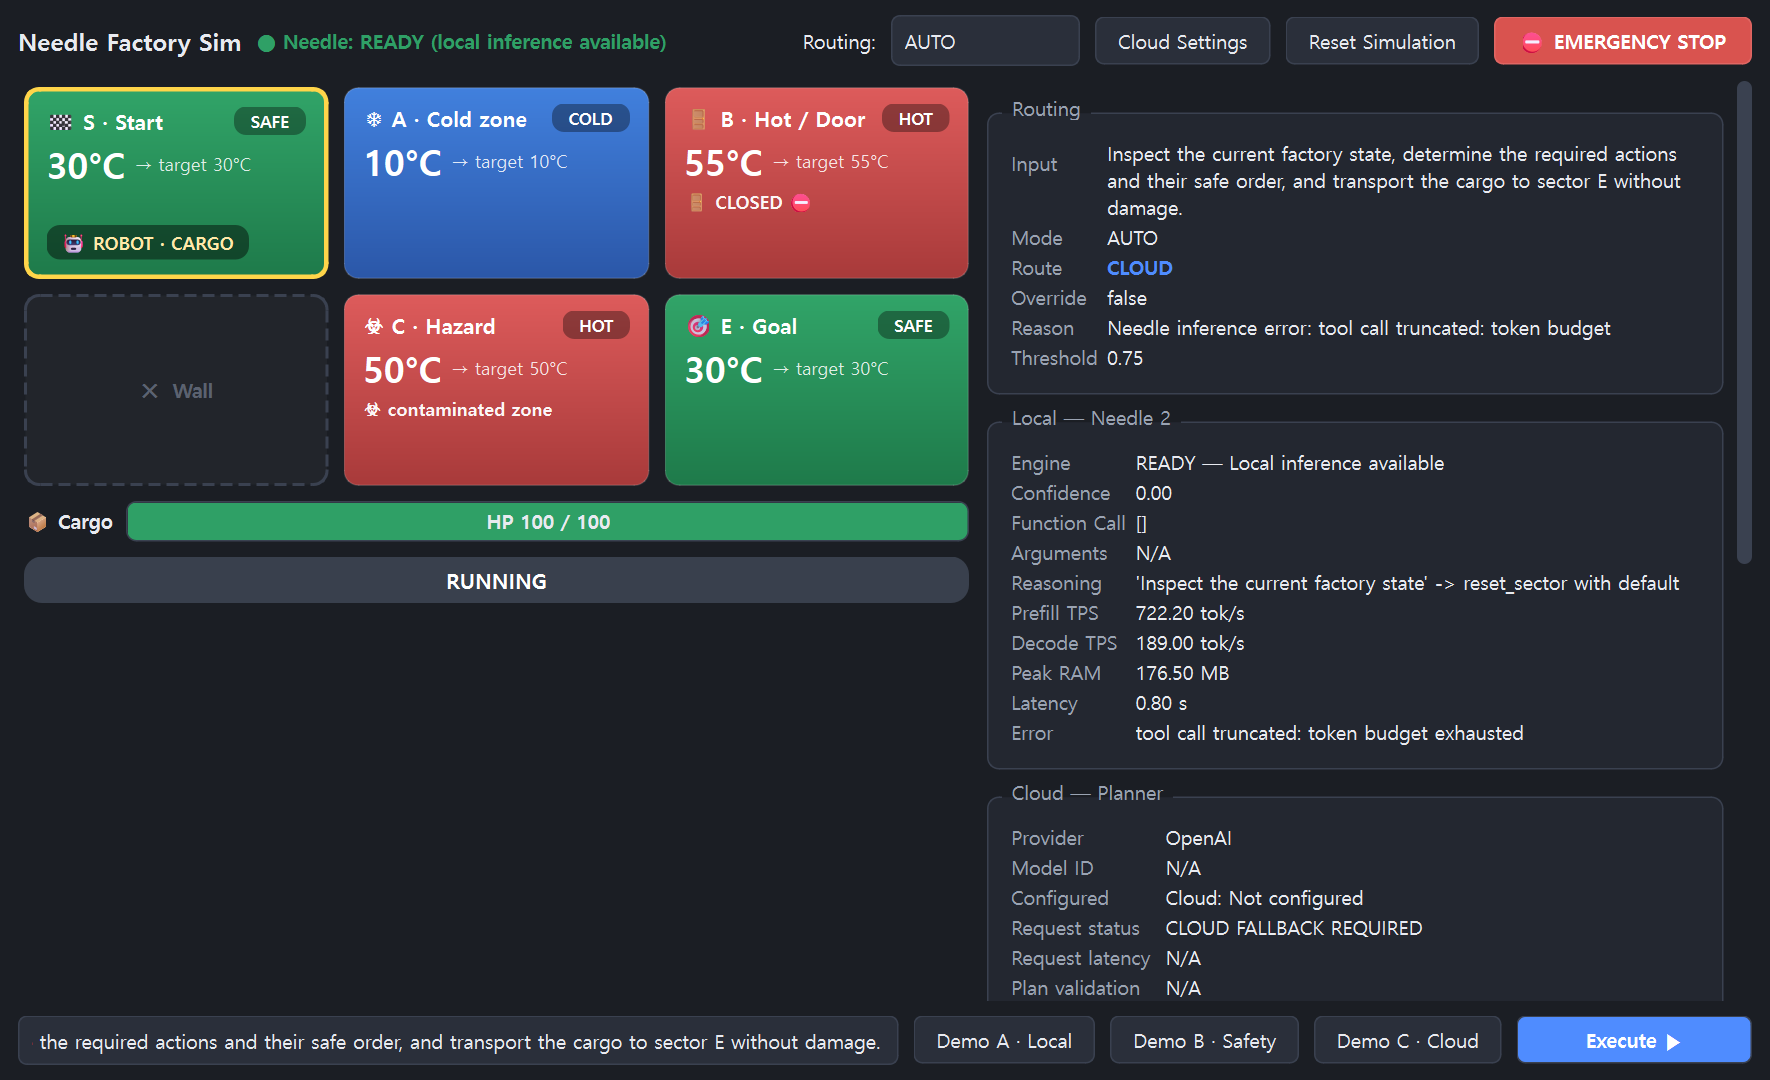
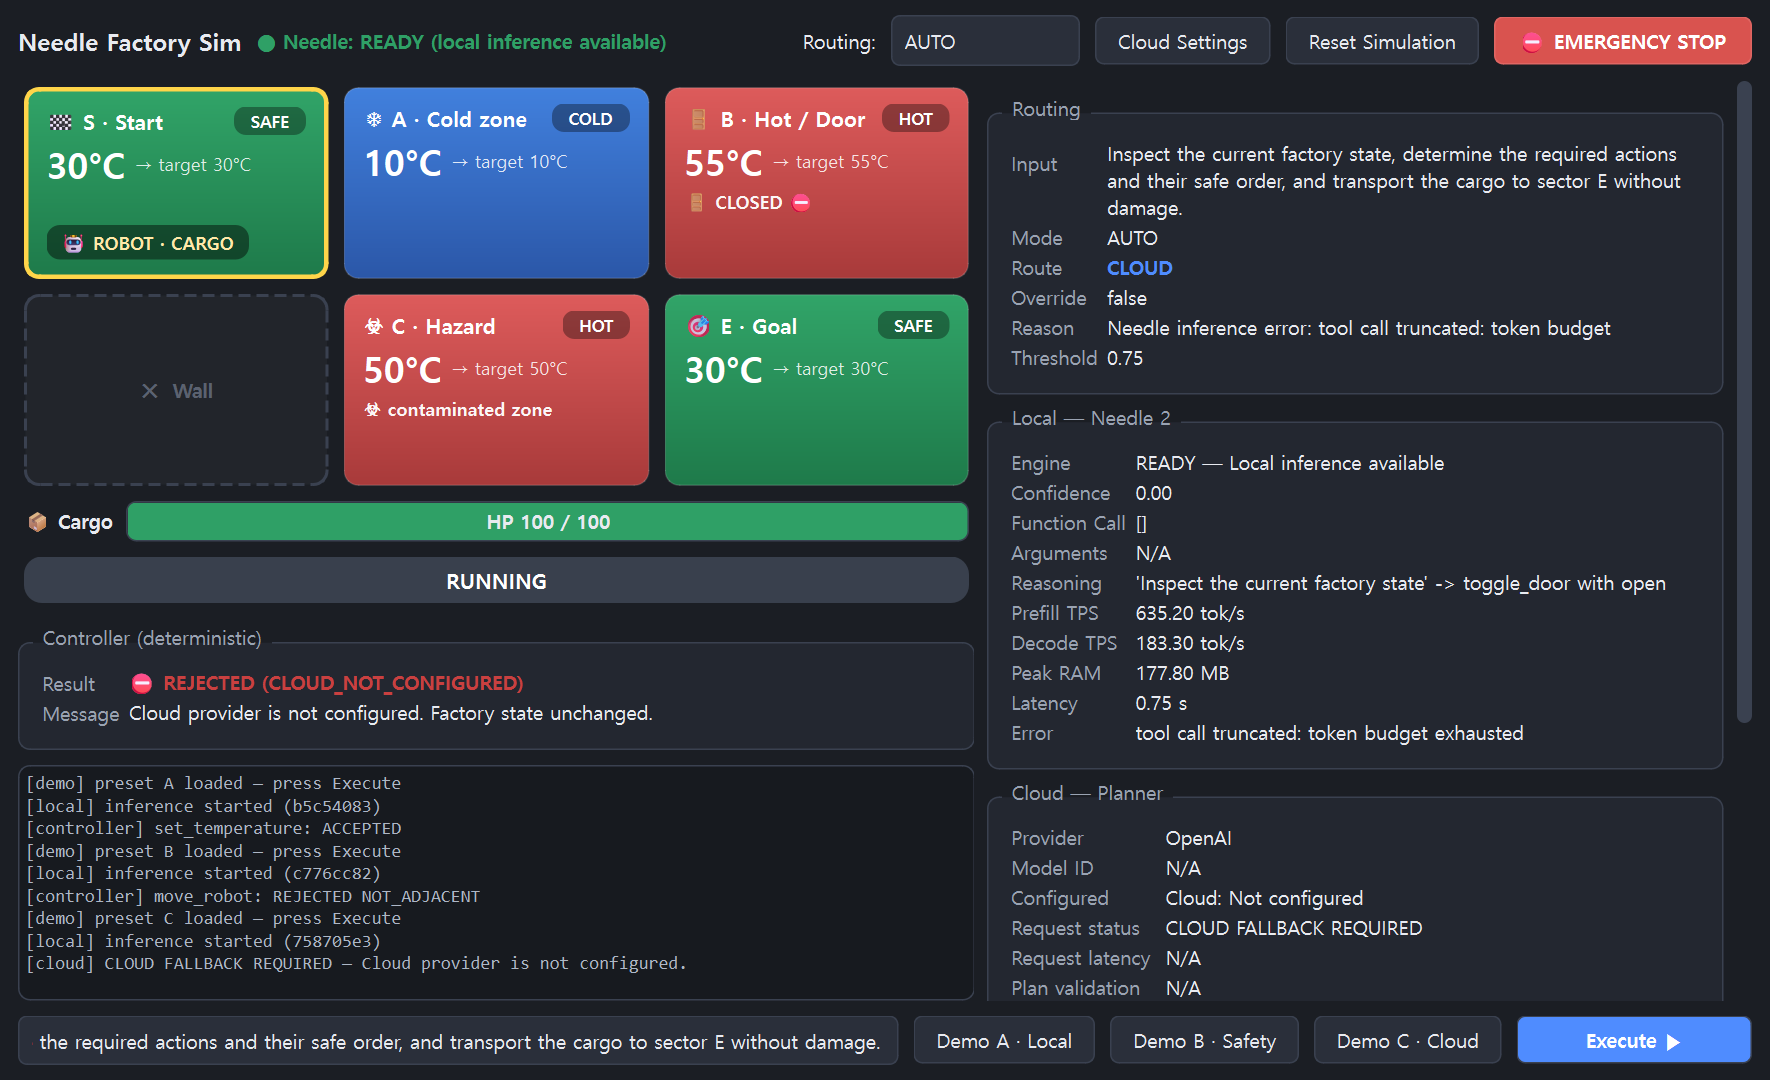
feat: move controller/log to left column; improve paraphrase robustness
- Controller result group and event log now sit under the mission status
  pill on the left, no scrolling needed to see them
- Needle tool docstrings enriched with synonym hints (go/head/drive,
  warm up/cool down, shut, clean/decontaminate, stop everything/halt/abort)
- paraphrase_spike.py measures it: 14/25 -> 20/25 local execution, with
  zero wrong-action executions (all misses escalate to CLOUD safely);
  Demo A/B/C routing re-verified unchanged (LOCAL/LOCAL/CLOUD x3)

diff --git a/scripts/paraphrase_spike.py b/scripts/paraphrase_spike.py
@@ -1,0 +1,95 @@
+"""Measures how well Needle handles paraphrased English commands.
+
+Each case defines the expected tool call. A run counts as PASS when Needle
+returns exactly that call with confidence >= threshold (i.e. it would route
+LOCAL and execute the intended action).
+
+Usage: uv run python scripts/paraphrase_spike.py [--threshold 0.75]
+"""
+
+from __future__ import annotations
+
+import argparse
+import sys
+from pathlib import Path
+
+sys.path.insert(0, str(Path(__file__).resolve().parents[1] / "src"))
+
+from needle_factory_sim.ai.needle_adapter import build_agent, run_single_command
+from needle_factory_sim.ai.router import Route, decide_route
+from needle_factory_sim.constants import DEFAULT_CONFIDENCE_THRESHOLD
+
+# (prompt, expected action, expected arguments)
+CASES = [
+    # --- move_robot: synonyms for "move to sector X"
+    ("Move the robot to sector A.", "move_robot", {"target_sector": "A"}),
+    ("Go to sector A.", "move_robot", {"target_sector": "A"}),
+    ("Head over to sector B.", "move_robot", {"target_sector": "B"}),
+    ("Send the robot into sector C.", "move_robot", {"target_sector": "C"}),
+    ("Drive to E.", "move_robot", {"target_sector": "E"}),
+    ("Take the cargo to sector B.", "move_robot", {"target_sector": "B"}),
+    # --- set_temperature: warm/cool/adjust/make
+    ("Set sector A temperature to 30 degrees.", "set_temperature", {"sector_id": "A", "target_c": 30}),
+    ("Warm up sector A to 30 degrees.", "set_temperature", {"sector_id": "A", "target_c": 30}),
+    ("Cool sector B down to 25 degrees.", "set_temperature", {"sector_id": "B", "target_c": 25}),
+    ("Make sector E 35 degrees.", "set_temperature", {"sector_id": "E", "target_c": 35}),
+    ("Adjust the temperature of sector C to 20.", "set_temperature", {"sector_id": "C", "target_c": 20}),
+    ("Change sector A to 22 degrees Celsius.", "set_temperature", {"sector_id": "A", "target_c": 22}),
+    # --- toggle_door: open/close/shut/unlock
+    ("Open the door of sector B.", "toggle_door", {"sector_id": "B", "open": True}),
+    ("Open sector B's door.", "toggle_door", {"sector_id": "B", "open": True}),
+    ("Close the door to sector B.", "toggle_door", {"sector_id": "B", "open": False}),
+    ("Shut the B door.", "toggle_door", {"sector_id": "B", "open": False}),
+    ("Unlock the entry door for B.", "toggle_door", {"sector_id": "B", "open": True}),
+    # --- reset_sector: reset/clean/decontaminate
+    ("Reset sector C.", "reset_sector", {"sector_id": "C"}),
+    ("Decontaminate sector C.", "reset_sector", {"sector_id": "C"}),
+    ("Clean up sector C.", "reset_sector", {"sector_id": "C"}),
+    ("Clear the contamination in C.", "reset_sector", {"sector_id": "C"}),
+    # --- emergency_stop: stop/halt/abort
+    ("Emergency stop.", "emergency_stop", {}),
+    ("Stop everything right now!", "emergency_stop", {}),
+    ("Halt the factory immediately.", "emergency_stop", {}),
+    ("Abort all operations, emergency!", "emergency_stop", {}),
+]
+
+
+def main() -> int:
+    parser = argparse.ArgumentParser()
+    parser.add_argument("--threshold", type=float, default=DEFAULT_CONFIDENCE_THRESHOLD)
+    args = parser.parse_args()
+
+    agent = build_agent()
+    passed = 0
+    per_action: dict[str, list[int]] = {}
+    for prompt, want_action, want_args in CASES:
+        result = run_single_command(agent, prompt)
+        decision = decide_route(result, args.threshold)
+        ok = (
+            decision.route is Route.LOCAL
+            and decision.action == want_action
+            and decision.arguments == want_args
+        )
+        passed += ok
+        per_action.setdefault(want_action, []).append(int(ok))
+        conf = f"{result.confidence:.2f}" if result.confidence is not None else "None"
+        got = (
+            f"{decision.action}({decision.arguments})"
+            if decision.route is Route.LOCAL
+            else f"CLOUD ({decision.reason})"
+        )
+        mark = "PASS" if ok else "FAIL"
+        print(f"[{mark}] conf={conf}  {prompt!r}")
+        if not ok:
+            print(f"       want {want_action}({want_args})")
+            print(f"       got  {got}")
+
+    print()
+    for action, results in per_action.items():
+        print(f"{action:>18}: {sum(results)}/{len(results)}")
+    print(f"{'TOTAL':>18}: {passed}/{len(CASES)}")
+    return 0
+
+
+if __name__ == "__main__":
+    raise SystemExit(main())

diff --git a/src/needle_factory_sim/ai/needle_adapter.py b/src/needle_factory_sim/ai/needle_adapter.py
@@ -20,13 +20,13 @@ from ..constants import TEMP_SETPOINT_MAX_C, TEMP_SETPOINT_MIN_C
 
 @needle.tool
 def move_robot(target_sector: Literal["S", "A", "B", "C", "E"]):
-    """Move the transport robot to exactly one explicitly named adjacent sector.
+    """Move, go, head, drive, or send the transport robot to exactly one explicitly named adjacent sector.
 
     This tool does not plan a route.
-    The user must explicitly identify the target sector.
+    The user must explicitly identify the single target sector by name.
 
     Args:
-        target_sector: the explicitly named destination sector
+        target_sector: the explicitly named destination sector to move, go, or drive to
     """
     return {"target_sector": target_sector}
 
@@ -43,14 +43,14 @@ def set_temperature(
         ),
     ],
 ):
-    """Set the target temperature of one explicitly named factory sector.
+    """Set, change, adjust, warm up, or cool down the target temperature of one explicitly named factory sector.
 
-    The user must explicitly provide both the sector and target temperature.
+    The user must explicitly provide both the sector and the target temperature value.
     This starts a gradual temperature transition and does not wait.
 
     Args:
-        sector_id: the explicitly named sector
-        target_c: target temperature in Celsius
+        sector_id: the explicitly named sector whose temperature is set, changed, or adjusted
+        target_c: the explicitly given target temperature in degrees Celsius
     """
     return {"sector_id": sector_id, "target_c": target_c}
 
@@ -59,30 +59,34 @@ def set_temperature(
 def toggle_door(sector_id: Literal["B"], open: bool):  # noqa: A002
     """Open or close the entry door for sector B.
 
-    The user must explicitly request the door state.
+    The user must explicitly request the desired door state.
+    "open the door" means open=true. "close the door" or "shut the door" means open=false.
 
     Args:
         sector_id: the door sector (only B has a door)
-        open: true to open the door, false to close it
+        open: the desired door state. open the door = true. close or shut the door = false
     """
     return {"sector_id": sector_id, "open": open}
 
 
 @needle.tool
 def reset_sector(sector_id: Literal["C"]):
-    """Reset the contamination state of sector C after the robot has left it.
+    """Reset, clean, clean up, decontaminate, or clear the contamination of sector C after the robot has left it.
 
-    Use only when the user explicitly requests a sector reset.
+    Use only when the user explicitly asks for the sector to be reset, cleaned, or decontaminated.
 
     Args:
-        sector_id: the contaminated sector (only C is resettable)
+        sector_id: the contaminated sector to reset or clean (only C is resettable)
     """
     return {"sector_id": sector_id}
 
 
 @needle.tool
 def emergency_stop():
-    """Immediately stop the factory simulation when the user explicitly requests an emergency stop."""
+    """Emergency stop: immediately stop everything, halt all operations, or abort the entire factory.
+
+    Use when the user urgently asks to stop everything, stop now, halt, or abort.
+    """
     return {}
 
 

diff --git a/src/needle_factory_sim/ui/main_window.py b/src/needle_factory_sim/ui/main_window.py
@@ -105,11 +105,18 @@ class MainWindow(QMainWindow):
         top.addWidget(self.estop_btn)
         root.addLayout(top)
 
-        # Center: factory view | monitor
+        # Center: (factory view + controller result + log) | monitor
         splitter = QSplitter(Qt.Orientation.Horizontal)
         self.factory_view = FactoryView()
         self.monitor = AIMonitor()
-        splitter.addWidget(self.factory_view)
+        left = QWidget()
+        left_layout = QVBoxLayout(left)
+        left_layout.setContentsMargins(0, 0, 0, 0)
+        left_layout.setSpacing(10)
+        left_layout.addWidget(self.factory_view)
+        left_layout.addWidget(self.monitor.controller_group)
+        left_layout.addWidget(self.monitor.log, stretch=1)
+        splitter.addWidget(left)
         splitter.addWidget(self.monitor)
         splitter.setSizes([640, 520])
         root.addWidget(splitter, stretch=1)

diff --git a/src/needle_factory_sim/ui/ai_monitor.py b/src/needle_factory_sim/ui/ai_monitor.py
@@ -136,18 +136,19 @@ class AIMonitor(QWidget):
         self.steps_table.setMinimumHeight(160)
         layout.addWidget(self.steps_table)
 
+        layout.addStretch(1)
+
+        # Shown on the LEFT column (under the mission status pill) — created
+        # here so all monitor update methods stay in one place, but parented
+        # into the main window's left layout.
         self.controller_group = _FieldGroup(
             "Controller (deterministic)",
             [("result", "Result"), ("message", "Message")],
         )
-        layout.addWidget(self.controller_group)
-
         self.log = QPlainTextEdit()
         self.log.setReadOnly(True)
         self.log.setMaximumBlockCount(500)
         self.log.setMinimumHeight(120)
-        layout.addWidget(self.log)
-        layout.addStretch(1)
 
     # ------------------------------------------------------------------ API
 

diff --git a/src/needle_factory_sim/ui/factory_view.py b/src/needle_factory_sim/ui/factory_view.py
@@ -199,7 +199,6 @@ class FactoryView(QWidget):
         self._status_label = QLabel()
         self._status_label.setAlignment(Qt.AlignmentFlag.AlignCenter)
         root.addWidget(self._status_label)
-        root.addStretch(1)
 
     def update_from(self, state: FactoryState) -> None:
         for card in self._cards.values():

diff --git a/README.md b/README.md
@@ -158,7 +158,11 @@ contamination/reset, damage, game-over, e-stop), the confidence router (mocked
 Needle responses), strict ExecutionPlan validation (step/wait limits, order
 contiguity, extra-field rejection) and simulation reset. No test needs network
 or a real cloud key. `scripts/needle_spike.py` measures real Needle behaviour;
-`scripts/demo_smoke.py` drives Demo A/B/C end-to-end through the real window.
+`scripts/demo_smoke.py` drives Demo A/B/C end-to-end through the real window;
+`scripts/paraphrase_spike.py` measures robustness to paraphrased English
+commands (currently 20/25 execute locally; the tool docstrings carry synonym
+hints, and every miss escalates safely to CLOUD instead of executing a wrong
+action).
 
 ## Known limitations
 
